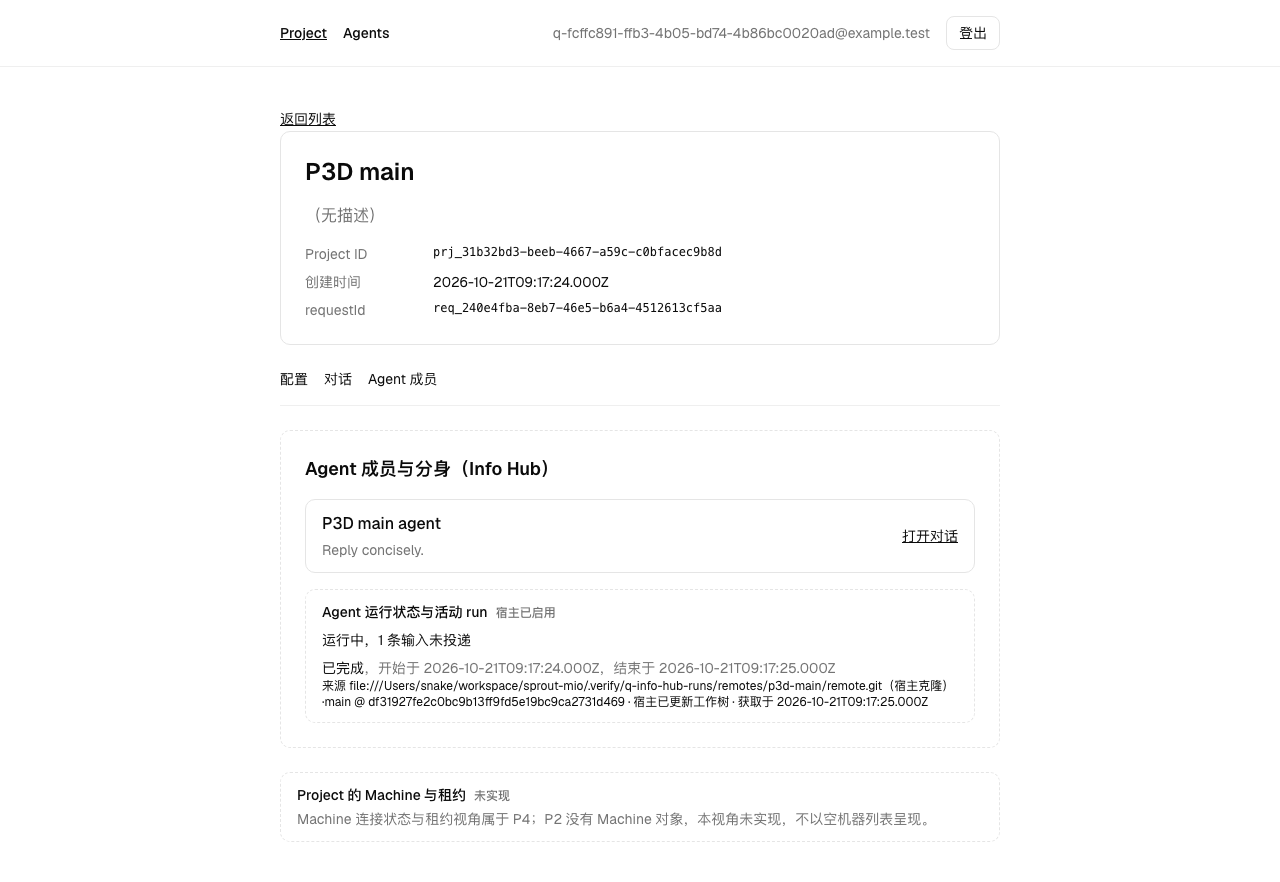
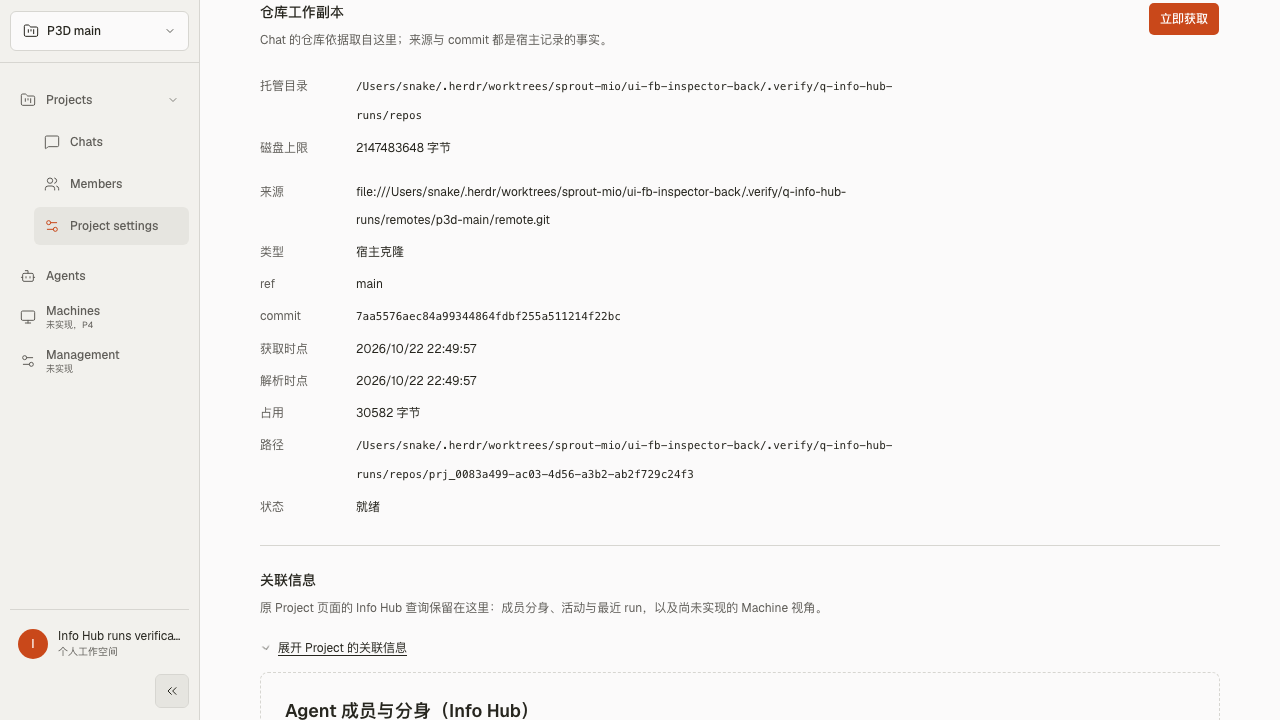
feat(info-hub): aggregate run facts and return from agent detail to chat
- run facts 只保留宿主状态、当前 run、历史 run 聚合计数、失败原因与
  requestId、最近一次 run 的仓库依据，删除逐条 run 流水账
- chat inspector 的 profile 链接带上 fromProjectId/fromChatId，agent 详情
  据此提供「返回对话」，无来源时退回 /agents 列表
- 新增浏览器自证脚本与 agents 详情返回来源单测

diff --git a/src/components/info-hub/run-facts.tsx b/src/components/info-hub/run-facts.tsx
@@ -9,11 +9,26 @@ const STATUS_LABELS: Record<string, string> = {
   interrupted: "已中断",
 };
 
+function statusLabel(status: string) {
+  return STATUS_LABELS[status] ?? status;
+}
+
+/** 历史 run 只做聚合：按状态计数，不逐条罗列每次开始与结束时间。 */
+function statusCounts(runs: AgentRunsView["recent"]) {
+  const counts = new Map<string, number>();
+  for (const run of runs) counts.set(run.status, (counts.get(run.status) ?? 0) + 1);
+  return [...counts].map(([status, count]) => `${statusLabel(status)} ${count}`).join("、");
+}
+
 /**
  * run 事实只消费视图对象；pending 输入一律显示为未投递，仓库依据显示来源、
- * ref、真实 commit 与 fresh。字段与 testid 保持 P3 的呈现语义。
+ * ref、真实 commit 与 fresh。当前 run 与失败汇总常显，历史 run 的流水账
+ * 收敛成计数；需要细节时可从失败项与轮初上下文继续追踪。
  */
 export function RunFactsBlock({ runs, testId }: { runs: AgentRunsView; testId: string }) {
+  const failures = runs.recent.filter((run) => run.errorCode);
+  // recent 为最新优先：取最近一次带仓库依据的 run，代表当前工作副本来源。
+  const latestRepo = runs.recent.find((run) => run.repo)?.repo;
   return (
     <section data-testid={testId} className="space-y-1.5 text-[11px]">
       <p className="font-medium">
@@ -30,9 +45,7 @@ export function RunFactsBlock({ runs, testId }: { runs: AgentRunsView; testId: s
         ) : (
           runs.active.map((run) => (
             <li key={run.runId} data-testid={`${testId}-active-item`} data-run-id={run.runId}>
-              <span data-testid={`${testId}-active-status`}>
-                {STATUS_LABELS[run.status] ?? run.status}
-              </span>
+              <span data-testid={`${testId}-active-status`}>{statusLabel(run.status)}</span>
               {run.pendingInputs > 0 && (
                 <span data-testid={`${testId}-active-pending`}>
                   ，{run.pendingInputs} 条输入未投递
@@ -42,44 +55,46 @@ export function RunFactsBlock({ runs, testId }: { runs: AgentRunsView; testId: s
           ))
         )}
       </ul>
-      <ul data-testid={`${testId}-recent`} className="space-y-1.5">
-        {runs.recent.map((run) => (
-          <li
-            key={run.runId}
-            data-testid={`${testId}-recent-item`}
-            data-run-id={run.runId}
-            className="text-muted-foreground"
-          >
-            <span data-testid={`${testId}-recent-status`} className="text-foreground">
-              {STATUS_LABELS[run.status] ?? run.status}
-            </span>
-            <span>，开始于 {run.queuedAt}</span>
-            {run.settledAt && <span>，结束于 {run.settledAt}</span>}
-            {run.errorCode && (
-              <span data-testid={`${testId}-recent-error`} className="block text-status-failed">
-                {run.errorCode}：{run.errorMessage ?? "未知失败原因"}
+      <p
+        data-testid={`${testId}-recent`}
+        data-run-count={runs.recent.length}
+        className="text-muted-foreground"
+      >
+        {runs.recent.length === 0
+          ? "还没有历史 run。"
+          : `最近 ${runs.recent.length} 个 run：${statusCounts(runs.recent)}`}
+      </p>
+      {failures.length > 0 && (
+        <ul data-testid={`${testId}-failures`} className="space-y-1">
+          {failures.map((run) => (
+            <li
+              key={run.runId}
+              data-testid={`${testId}-recent-error`}
+              data-run-id={run.runId}
+              className="text-status-failed"
+            >
+              <span>
+                {statusLabel(run.status)}：{run.errorCode}：{run.errorMessage ?? "未知失败原因"}
               </span>
-            )}
-            {run.errorCode && (
               <span
                 data-testid={`${testId}-recent-error-request`}
-                className="block font-mono break-all"
+                className="block font-mono break-all text-muted-foreground"
               >
                 requestId: {run.requestId}
               </span>
-            )}
-            {run.repo && (
-              <span data-testid={`${testId}-recent-repo`} className="block">
-                来源 {run.repo.source}（
-                {run.repo.sourceKind === "managed_clone" ? "宿主克隆" : "本地副本"}）·
-                {run.repo.ref} @ {run.repo.commit} ·{" "}
-                {run.repo.fresh ? "宿主已更新工作树" : "未改写工作树"} ·{" "}
-                {run.repo.fetchedAt ? `获取于 ${run.repo.fetchedAt}` : "宿主未取过"}
-              </span>
-            )}
-          </li>
-        ))}
-      </ul>
+            </li>
+          ))}
+        </ul>
+      )}
+      {latestRepo && (
+        <p data-testid={`${testId}-recent-repo`} className="text-muted-foreground">
+          最近一次 run 的仓库依据：{latestRepo.source}（
+          {latestRepo.sourceKind === "managed_clone" ? "宿主克隆" : "本地副本"}）·
+          {latestRepo.ref} @ {latestRepo.commit} ·{" "}
+          {latestRepo.fresh ? "宿主已更新工作树" : "未改写工作树"} ·{" "}
+          {latestRepo.fetchedAt ? `获取于 ${latestRepo.fetchedAt}` : "宿主未取过"}
+        </p>
+      )}
     </section>
   );
 }
@@ -121,13 +136,13 @@ export function TurnStartContextBlock({ context }: { context: TurnStartContext }
       </p>
       <p data-testid="info-turn-active-run" className="text-muted-foreground">
         {context.activeRun
-          ? `已有活动 run（${STATUS_LABELS[context.activeRun.status] ?? context.activeRun.status}），${context.activeRun.pendingInputs} 条输入未投递`
+          ? `已有活动 run（${statusLabel(context.activeRun.status)}），${context.activeRun.pendingInputs} 条输入未投递`
           : "尚无排队中或运行中的 run"}
       </p>
       <p data-testid="info-turn-previous-run" className="text-muted-foreground">
         {context.previousRun ? (
           <>
-            上一次 run：{STATUS_LABELS[context.previousRun.status] ?? context.previousRun.status}
+            上一次 run：{statusLabel(context.previousRun.status)}
             {context.previousRun.errorCode &&
               `（${context.previousRun.errorCode}：${context.previousRun.errorMessage ?? "未知失败原因"}）`}
             <span className="ml-2 font-mono break-all">

diff --git a/src/routes/_authed/agents.$agentProfileId.tsx b/src/routes/_authed/agents.$agentProfileId.tsx
@@ -1,4 +1,8 @@
 import { Link, createFileRoute, useRouter } from "@tanstack/react-router";
+import {
+  agentDetailBackTarget,
+  agentDetailSearchSchema,
+} from "../../components/agent/agent-detail-search";
 import { AgentEditForm } from "../../components/agent/agent-edit-form";
 import { PageFrame } from "../../components/layout/page-frame";
 import { ThemeToggle } from "../../components/layout/theme-toggle";
@@ -7,21 +11,47 @@ import { Facts, SettingsSection } from "../../components/project/settings-sectio
 import { getAgentProfileFn } from "../../server/functions/agent";
 
 export const Route = createFileRoute("/_authed/agents/$agentProfileId")({
+  validateSearch: agentDetailSearchSchema,
   loader: ({ params }) => getAgentProfileFn({ data: { agentProfileId: params.agentProfileId } }),
   component: AgentDetailPage,
 });
+
+/**
+ * 返回入口跟随 URL 里的来源：从 chat inspector 进入时回到原 chat（保留 chatId，
+ * 并重新展开 inspector），没有来源时退回 Agents 列表。
+ */
+function AgentBackLink(search: Parameters<typeof agentDetailBackTarget>[0]) {
+  const target = agentDetailBackTarget(search);
+  if (target.kind === "chat")
+    return (
+      <Link
+        to="/projects/$projectId/chats/$chatId"
+        params={{ projectId: target.projectId, chatId: target.chatId }}
+        search={{ info: 1 }}
+        data-testid="agent-detail-back-to-chat"
+      >
+        返回对话
+      </Link>
+    );
+  return (
+    <Link to="/agents" data-testid="agent-detail-back-to-agents">
+      返回 Agents
+    </Link>
+  );
+}
 
 /** 详情页深链直接刷新时由 loader 重新取数，URL 与 profile id 永远一致。 */
 function AgentDetailPage() {
   const result = Route.useLoaderData();
   const router = useRouter();
+  const search = Route.useSearch();
 
   if (!result.ok)
     return (
       <PageFrame
         title="Agent profile 不存在"
         description="请返回列表选择已有 profile。"
-        back={<Link to="/agents">返回 Agents</Link>}
+        back={<AgentBackLink {...search} />}
         actions={<ThemeToggle />}
         testId="agent-detail-page"
       >
@@ -39,7 +69,7 @@ function AgentDetailPage() {
           {" · Agent profile"}
         </>
       }
-      back={<Link to="/agents">返回 Agents</Link>}
+      back={<AgentBackLink {...search} />}
       actions={<ThemeToggle />}
       testId="agent-detail-page"
     >

diff --git a/tests/agent-detail-return.test.ts b/tests/agent-detail-return.test.ts
@@ -1,0 +1,43 @@
+import { describe, expect, it } from "vite-plus/test";
+import {
+  agentDetailBackTarget,
+  agentDetailFromChat,
+  agentDetailSearchSchema,
+} from "../src/components/agent/agent-detail-search";
+
+const projectId = "prj_11111111-1111-4111-8111-111111111111";
+const chatId = "cnv_22222222-2222-4222-9222-222222222222";
+
+describe("Agent 详情返回来源", () => {
+  it("从 chat 进入时保留该 chat 的 projectId 与 chatId，返回目标是同一个 chat", () => {
+    const search = agentDetailSearchSchema.parse(agentDetailFromChat({ id: chatId, projectId }));
+    expect(agentDetailBackTarget(search)).toEqual({ kind: "chat", projectId, chatId });
+  });
+
+  it("没有来源时返回 Agents 列表，不凭空造 chatId", () => {
+    expect(agentDetailBackTarget(agentDetailSearchSchema.parse({}))).toEqual({ kind: "agents" });
+    expect(agentDetailBackTarget(agentDetailSearchSchema.parse({ fromChatId: chatId }))).toEqual({
+      kind: "agents",
+    });
+    expect(
+      agentDetailBackTarget(agentDetailSearchSchema.parse({ fromProjectId: projectId })),
+    ).toEqual({ kind: "agents" });
+  });
+
+  it("坏来源参数被丢弃而不是让 URL 解析失败", () => {
+    const search = agentDetailSearchSchema.parse({
+      fromProjectId: "not-a-project",
+      fromChatId: "../other-chat",
+    });
+    expect(search).toEqual({ fromProjectId: undefined, fromChatId: undefined });
+    expect(agentDetailBackTarget(search)).toEqual({ kind: "agents" });
+  });
+
+  it("前缀混用不作为可用的返回来源", () => {
+    const search = agentDetailSearchSchema.parse({
+      fromProjectId: chatId,
+      fromChatId: projectId,
+    });
+    expect(agentDetailBackTarget(search)).toEqual({ kind: "agents" });
+  });
+});

diff --git a/src/components/info-hub/chat-inspector.tsx b/src/components/info-hub/chat-inspector.tsx
@@ -1,5 +1,6 @@
 import { Link } from "@tanstack/react-router";
 import { ArrowLeft, ChevronRight, PanelRightClose, ShieldCheck } from "lucide-react";
+import { agentDetailFromChat } from "../agent/agent-detail-search";
 import type { AgentProfile, AgentResult } from "../../contracts/agent";
 import type { AgentInstance, Chat, ChatMember, ChatResult } from "../../contracts/chat";
 import type { ChatInfoView, InfoHubResult, TurnStartContext } from "../../contracts/info-hub";
@@ -88,6 +89,8 @@ export function ChatInspector({
                   <Link
                     to="/agents/$agentProfileId"
                     params={{ agentProfileId: profile.data.id }}
+                    search={agentDetailFromChat(chat)}
+                    data-testid="inspector-agent-profile-link"
                     className="shrink-0 text-[10px] text-foreground underline decoration-input underline-offset-3 hover:decoration-foreground"
                   >
                     profile
@@ -133,9 +136,9 @@ export function ChatInspector({
                 <span>运行事实与轮初上下文</span>
                 <span className="flex items-center gap-2 text-muted-foreground">
                   <span>
-                    {info.data.runs.hostEnabled
+                    {info.data.runs.active.length > 0
                       ? `${info.data.runs.active.length} 个活动 run`
-                      : "宿主未启用"}
+                      : "无排队中或运行中的 run"}
                   </span>
                   <Icon
                     as={ChevronRight}

diff --git a/src/components/agent/agent-detail-search.ts b/src/components/agent/agent-detail-search.ts
@@ -1,0 +1,30 @@
+import { z } from "zod";
+import { appIdPattern, ID_PREFIXES } from "../../contracts/ids";
+
+/**
+ * Agent 详情页的返回来源由 URL 表达：从 chat inspector 进来时带上该 chat 的
+ * projectId 与 chatId，刷新、直接打开与前进后退都得到同一个返回目标。
+ * 无法解析的值一律丢弃，退化为返回 Agents 列表，不凭空造一个 chatId。
+ */
+export const agentDetailSearchSchema = z.object({
+  fromProjectId: z.string().regex(appIdPattern(ID_PREFIXES.project)).optional().catch(undefined),
+  fromChatId: z.string().regex(appIdPattern(ID_PREFIXES.chat)).optional().catch(undefined),
+});
+
+export type AgentDetailSearch = z.infer<typeof agentDetailSearchSchema>;
+
+/** 从 chat 进入 profile 时携带的返回来源。 */
+export function agentDetailFromChat(chat: { id: string; projectId: string }): AgentDetailSearch {
+  return { fromProjectId: chat.projectId, fromChatId: chat.id };
+}
+
+/** 返回目标：来源齐全才回 chat，否则回到 Agents 列表，不凭空造 chatId。 */
+export type AgentDetailBackTarget =
+  | { kind: "chat"; projectId: string; chatId: string }
+  | { kind: "agents" };
+
+export function agentDetailBackTarget(search: AgentDetailSearch): AgentDetailBackTarget {
+  return search.fromProjectId && search.fromChatId
+    ? { kind: "chat", projectId: search.fromProjectId, chatId: search.fromChatId }
+    : { kind: "agents" };
+}

diff --git a/docs/p3/info-hub-runs.md b/docs/p3/info-hub-runs.md
@@ -48,7 +48,8 @@
 
 ## 页面
 
-- `src/components/info-hub/run-facts.tsx`：`RunFactsBlock`（宿主启用状态、活动 run 与未投递输入、最近 run 状态与时间、失败 run 的 `errorCode：errorMessage` 与 requestId、仓库依据行）与 `TurnStartContextBlock`（工作副本、活动 run、上一次 run、注入声明）。
+- `src/components/info-hub/run-facts.tsx`：`RunFactsBlock`（宿主启用状态、活动 run 与未投递输入、历史 run 的按状态聚合计数、失败 run 的 `errorCode：errorMessage` 与 requestId、最近一次 run 的仓库依据行）与 `TurnStartContextBlock`（工作副本、活动 run、上一次 run、注入声明）。
+- 逐个历史 run 的开始/结束时间流水账已去掉（UI review 反馈 8）：`${testId}-recent` 改为聚合行（`data-run-count` + 状态计数），失败明细仍在 `${testId}-recent-error` / `-recent-error-request`，仓库依据取最近一次带 provenance 的 run（`${testId}-recent-repo`）；`-recent-item`、`-recent-status` 随流水账一并移除，`scripts/verify/q-info-hub-runs.sh` 的等价断言改为「聚合行含 `最近 N 个 run：…已完成 N`、逐条行数为 0、仓库依据行含真实 commit 与 fresh」。
 - `project-agents-panel.tsx` 用 `RunFactsBlock` 替换原 runs 的不可用通知（testId `info-hub-project-runs`）；Machine 的 `UnavailableNotice`（`info-hub-machines-notice`）保留。
 - `chat-info-panel.tsx` 用 `RunFactsBlock`（testId `info-chat-runs`）与 `TurnStartContextBlock` 替换原 runs 的不可用通知；路由 loader 增取 `getTurnStartContextFn`，失败显示 `info-hub-turn-context-error`。
 - pending 输入只以「N 条输入未投递」出现；没有任何文案使用「无活动 run」「0 个活动 run」这类会被读成空成功的措辞。

diff --git a/docs/p2/project-agents.md b/docs/p2/project-agents.md
@@ -16,6 +16,8 @@
 
 Agent 列表与详情分别由 `agents.index.tsx` 与 `agents.$agentProfileId.tsx` 承载，直接挂在已登录外壳下。`projects.$projectId.tsx` 只承担 Project 上下文布局，`projects.$projectId.index.tsx` 把 Project 根重定向到 Chats；三条 Project 子页 URL 与两条 Agent URL 都能直接刷新。Project 上下文完全由 URL 推导，每个 `$projectId` 子页的 loader 各自调用授权查询（settings 走 `getProjectProfileFn`、`getProjectFn` 与 `getProjectRepoStateFn`，members 走 `listProjectMembersFn`，都经 `assertProjectAccess`），不属于当前用户的 projectId 显示 not_found 错误块而不是空白页。侧栏一级入口是 Projects、Agents、Machines（未实现，P4）与 Management（未实现），Project 内的 Chats、Members、Project settings 是侧栏二级菜单。
 
+Agent 详情的返回入口跟随 URL 来源（UI review 反馈 7）：从 chat inspector 的 profile 链接进入时 URL 带 `?fromProjectId=…&fromChatId=…`，返回入口是「返回对话」并回到那条 chat（保留 chatId 与 `?info=1` 的 inspector 状态）；没有来源或来源参数不合法时返回 `/agents` 列表，不凭空造 chatId。来源参数由 `src/components/agent/agent-detail-search.ts` 的 `agentDetailSearchSchema` 校验，坏值丢弃。浏览器自证见 `scripts/browser/ui-agent-detail-back.mjs`。
+
 ## 边界函数清单
 
 `src/server/functions/agent.ts`，全部按「会话 → zod → 领域调用」顺序，失败以 HTTP 200 加 `AppResult` 载荷返回：
